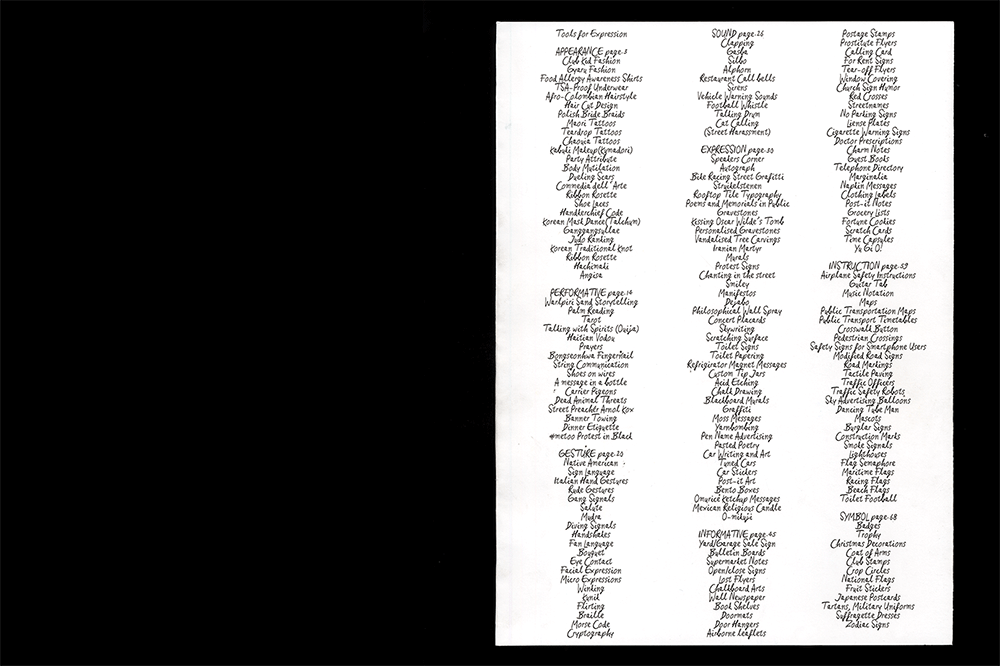
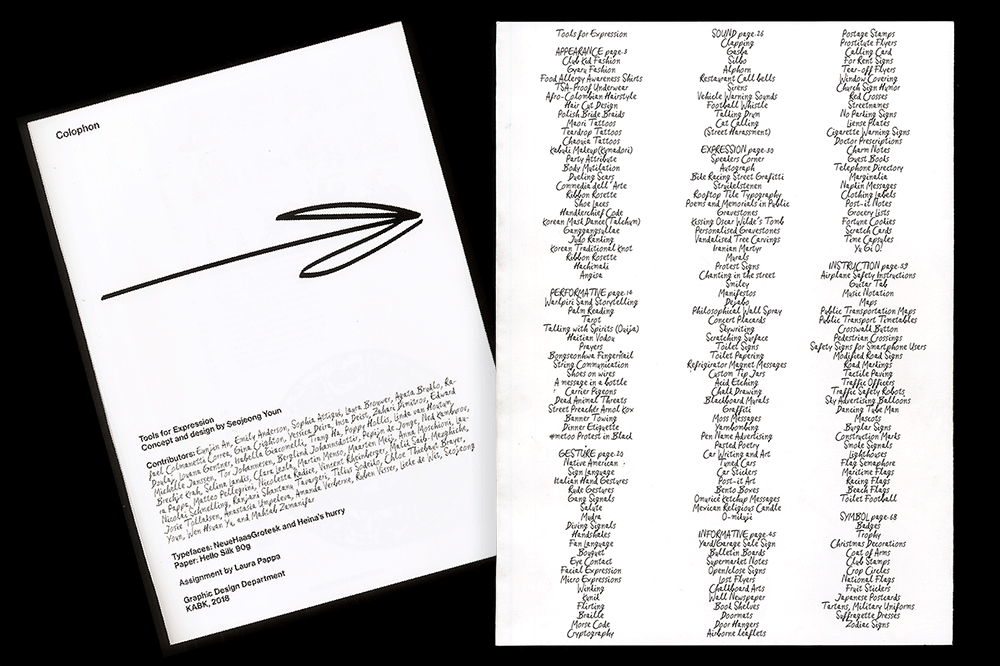
a

diff --git a/index.html b/index.html
@@ -157,9 +157,6 @@ Alongside the printed page, written language is represented in various forms. Pu
 			<img src="images/tools_for_expression/tools_for_expression.gif" />
 		</div>
 		<div class="project-item">
-			<img src="images/tools_for_expression/toolbook_backcover.png" />
-		</div>
-		<div class="project-item">
 			<img src="images/tools_for_expression/toolbook_expo_1.png" />
 		</div>
 		<div class="project-item">
